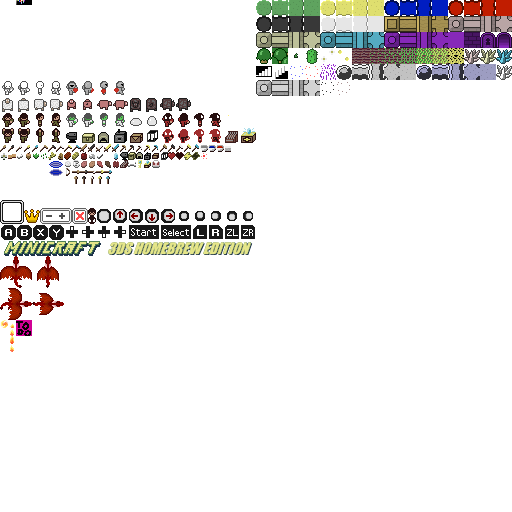
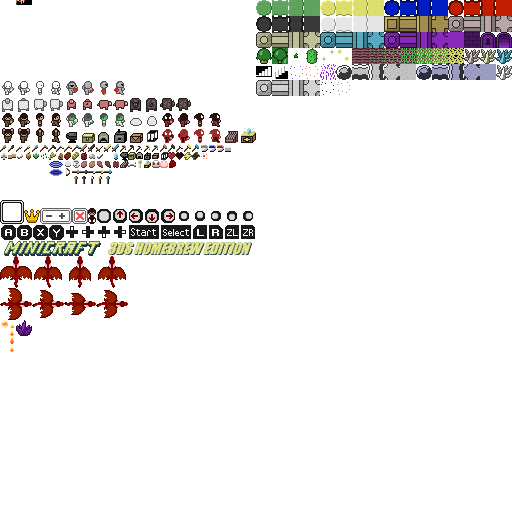
All the Changes for 1.2.1
Sorry forgot to commit once again.
Just look in the changelog of the release

diff --git a/source/Globals.c b/source/Globals.c
@@ -385,6 +385,7 @@ bool ItemVsEntity(Item* item, Entity* e, int dir){
                 return true;
 				
 				case ENTITY_MAGIC_PILLAR:
+					playSound(snd_monsterHurt);
 					removeEntityFromList(e, e->level, &eManager);
 				return true;
             } break;
@@ -402,6 +403,7 @@ bool ItemVsEntity(Item* item, Entity* e, int dir){
                 return true;
 				
 				case ENTITY_MAGIC_PILLAR:
+					playSound(snd_monsterHurt);
 					removeEntityFromList(e, e->level, &eManager);
 				return true;
             } break;
@@ -418,6 +420,7 @@ bool ItemVsEntity(Item* item, Entity* e, int dir){
                 return true;
 				
 				case ENTITY_MAGIC_PILLAR:
+					playSound(snd_monsterHurt);
 					removeEntityFromList(e, e->level, &eManager);
 				return true;
             } break;
@@ -1277,7 +1280,7 @@ void tickEntity(Entity* e){
 			if (e->hurtTime > 0) e->hurtTime--;
 			
 			e->dragon.animTimer++;
-			if(e->dragon.animTimer>=20) {
+			if(e->dragon.animTimer>=4*4) {
 				e->dragon.animTimer = 0;
 			}
 			
@@ -1285,8 +1288,8 @@ void tickEntity(Entity* e){
 			if (e->dragon.attackDelay > 0) {
 			    e->dragon.attackDelay--;
 			    if (e->dragon.attackDelay <= 0) {
-					e->wizard.attackType = rand()%2;
-				    e->wizard.attackTime = 121;
+					e->dragon.attackType = rand()%2;
+				    e->dragon.attackTime = 121;
 				}
 				return;
 			}

diff --git a/source/Render.c b/source/Render.c
@@ -1133,19 +1133,18 @@ void renderEntity(Entity* e, int x, int y) {
 		renderr(x, y, 200, 152, 0, e->spark.age * 0.0349);
 		break;
 	case ENTITY_DRAGON:
-		//TODO - render dragon(maybe with flying animation)
 		switch (e->dragon.dir) {
 		case 0: // down
-			render32(x - 16, y - 16, 0+(e->dragon.animTimer<10 ? 0 : 64), 256, 2);
+			render32(x - 16, y - 16, 0+(e->dragon.animTimer/4 * 32), 256, 2);
 			break;
 		case 1: // up
-			render32(x - 16, y - 16, 0+(e->dragon.animTimer<10 ? 0 : 64), 256, 0);
+			render32(x - 16, y - 16, 0+(e->dragon.animTimer/4 * 32), 256, 0);
 			break;
 		case 2: // left
-			render32(x - 16, y - 16, 0+(e->dragon.animTimer<10 ? 0 : 64), 288, 1);
+			render32(x - 16, y - 16, 0+(e->dragon.animTimer/4 * 32), 288, 1);
 			break;
 		case 3: // right
-			render32(x - 16, y - 16, 0+(e->dragon.animTimer<10 ? 0 : 64), 288, 0);
+			render32(x - 16, y - 16, 0+(e->dragon.animTimer/4 * 32), 288, 0);
 			break;
 		}
 		break;
@@ -1485,6 +1484,12 @@ void renderItemIcon(int itemID, int countLevel, int x, int y) {
 		break;
 	case ITEM_WIZARD_SUMMON:
 		render(x, y, 152, 160, 0);
+		break;
+	case ITEM_DRAGON_EGG:
+		render(x, y, 160, 160, 0);
+		break;
+	case ITEM_DRAGON_SCALE:
+		render(x, y, 168, 160, 0);
 		break;
 	case TOOL_BUCKET:
 		render(x, y, 200 + countLevel * 8, 144, 0);

diff --git a/source/Sound.c b/source/Sound.c
@@ -20,6 +20,11 @@ void playMusic(Sound snd){
     csndPlaySound(10, SOUND_FORMAT_16BIT | SOUND_REPEAT, 44100, 1, 0, snd.buffer, snd.buffer, snd.size);
 }
 
+void stopMusic() {
+	CSND_SetPlayState(8, 0);
+	CSND_SetPlayState(10, 0);
+}
+
 void updateMusic(int lvl, int time) {
 	switch(lvl) {
 	case 0:

diff --git a/source/Item.h b/source/Item.h
@@ -66,7 +66,6 @@
 #define ITEM_BONE 68
 #define ITEM_DUNGEON_KEY 69
 #define ITEM_WIZARD_SUMMON 70
-//TODO - implement icon
 #define ITEM_DRAGON_EGG 71
 #define ITEM_DRAGON_SCALE 72
 

diff --git a/source/Sound.h b/source/Sound.h
@@ -15,6 +15,7 @@ void playSound(Sound snd);
 
 void playMusic(Sound snd);
 void updateMusic(int lvl, int time);
+void stopMusic();
 
 void loadSounds();
 void freeSounds();

diff --git a/source/main.c b/source/main.c
@@ -296,6 +296,8 @@ int main() {
 
 		sf2d_swapbuffers();
 	}
+	
+	stopMusic();
 
 	freeRecipes();
 
